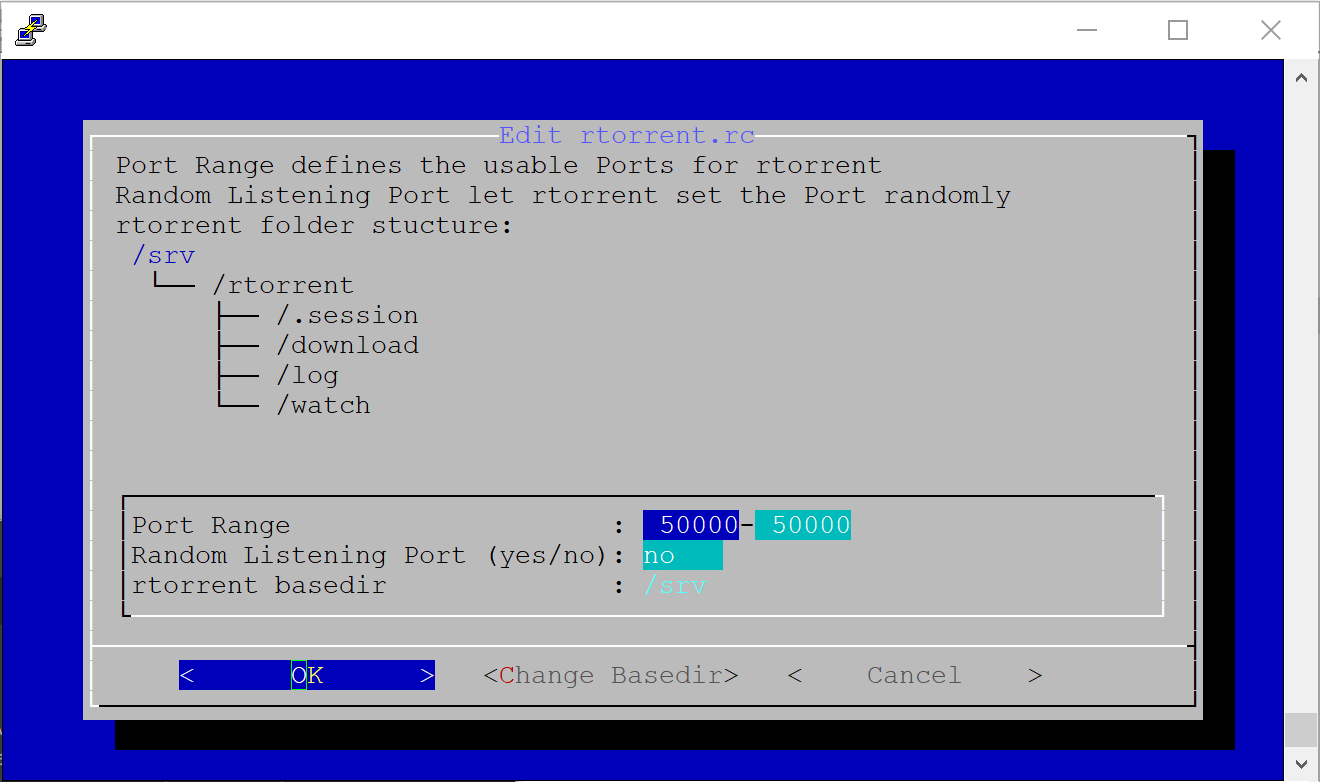
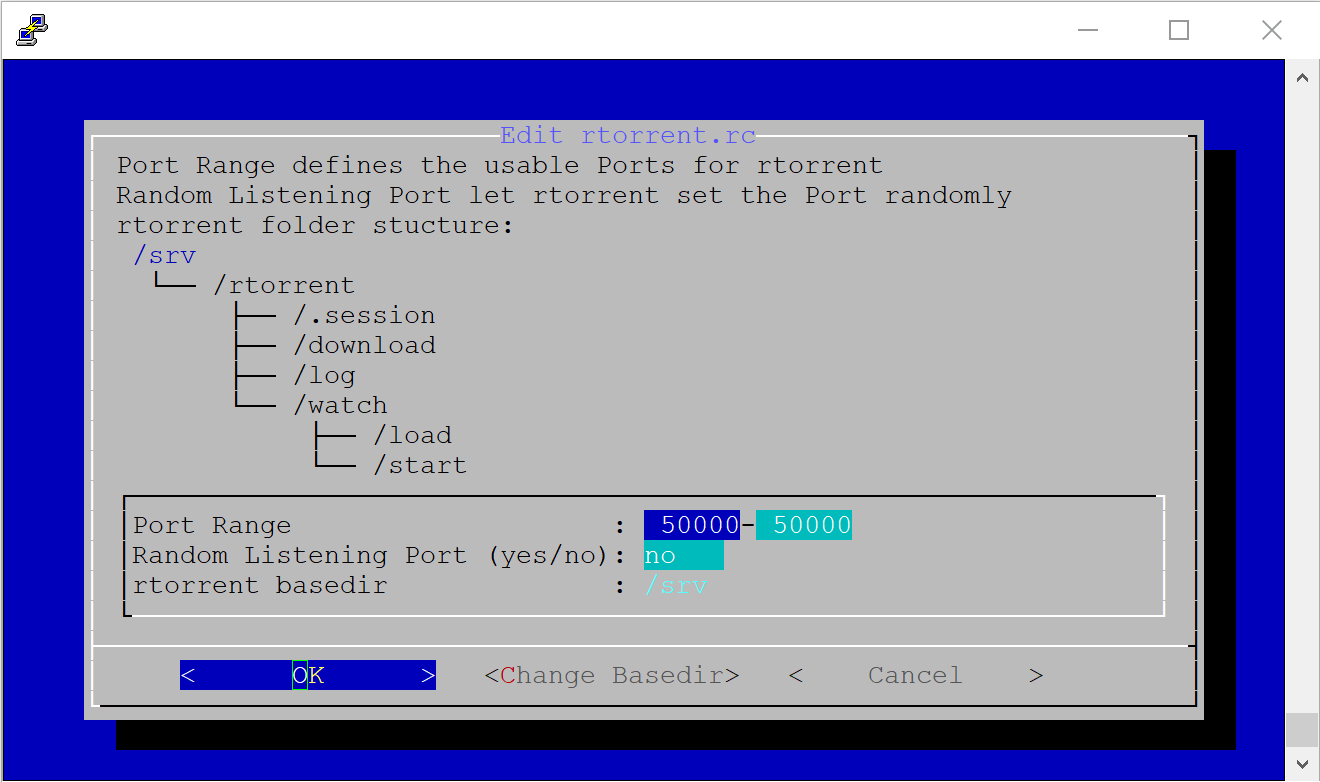
Update to Version 2.1
* Minor text fixes
* Add folders /load and /start in the rtorrent.rc dialog window
* For XMLRPC choose HTTPrpc instead of rpc and deactivate rpc on
  this decision both are activ to this point of time

diff --git a/README.md b/README.md
@@ -84,8 +84,9 @@ Or remove the installation if it doesn't fit your needs
   - include a option to switch from unrar-free to unrar-nonfree (Advanced features of version 3.0 archives are not supported with unrar-free)
 - ruTorrent
   - ruTorrent can easily updated
-  - add python path to ruTorrent to support cloudflare (3.9+)
-  - included plugins supported and loaded
+  - add python path to ruTorrent `config.php` to support cloudflare (3.9+)
+  - all included plugins supported and loaded
+  - choose to use httprpc in favor of rpc (both works, also simultaneously) for the XMLRPC (https://github.com/Novik/ruTorrent/discussions/2439)
   - did not use deprecated libapache2-mod-scgi (last update 1.13-1.1 02 Jul 2013, https://metadata.ftp-master.debian.org/changelogs//main/s/scgi/scgi_1.13-1.1_changelog)
   - remove Serversignature from Unauthorized HTML redirect from WebAuth (https://www.inmotionhosting.com/support/server/apache/hide-apache-version-and-linux-os/)
   - use localhostmode from ruTorrent (4.0.1+)
